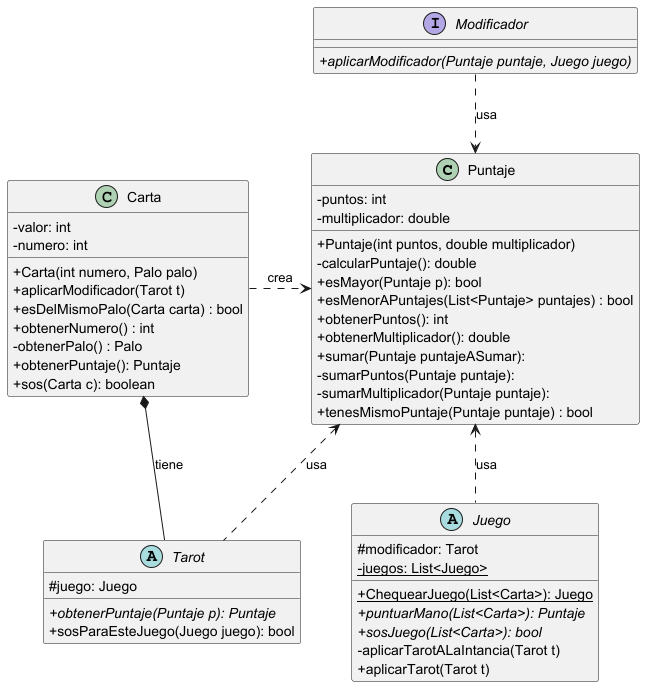
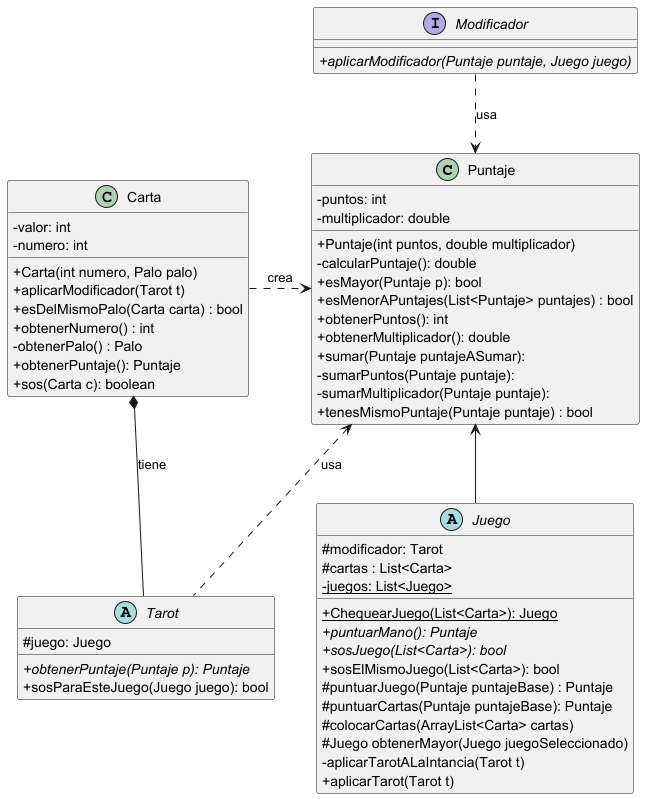
Actualizo diagrama de clases

diff --git a/src/main/java/edu/fiuba/algo3/modelo/naipes/carta/Carta.java b/src/main/java/edu/fiuba/algo3/modelo/naipes/carta/Carta.java
@@ -15,5 +15,7 @@ public interface Carta extends Comprable {
 
     boolean sos(Carta carta);
 
-    public String obtenerNombre();
+    String obtenerNombre();
+
+    void comprar();
 }
